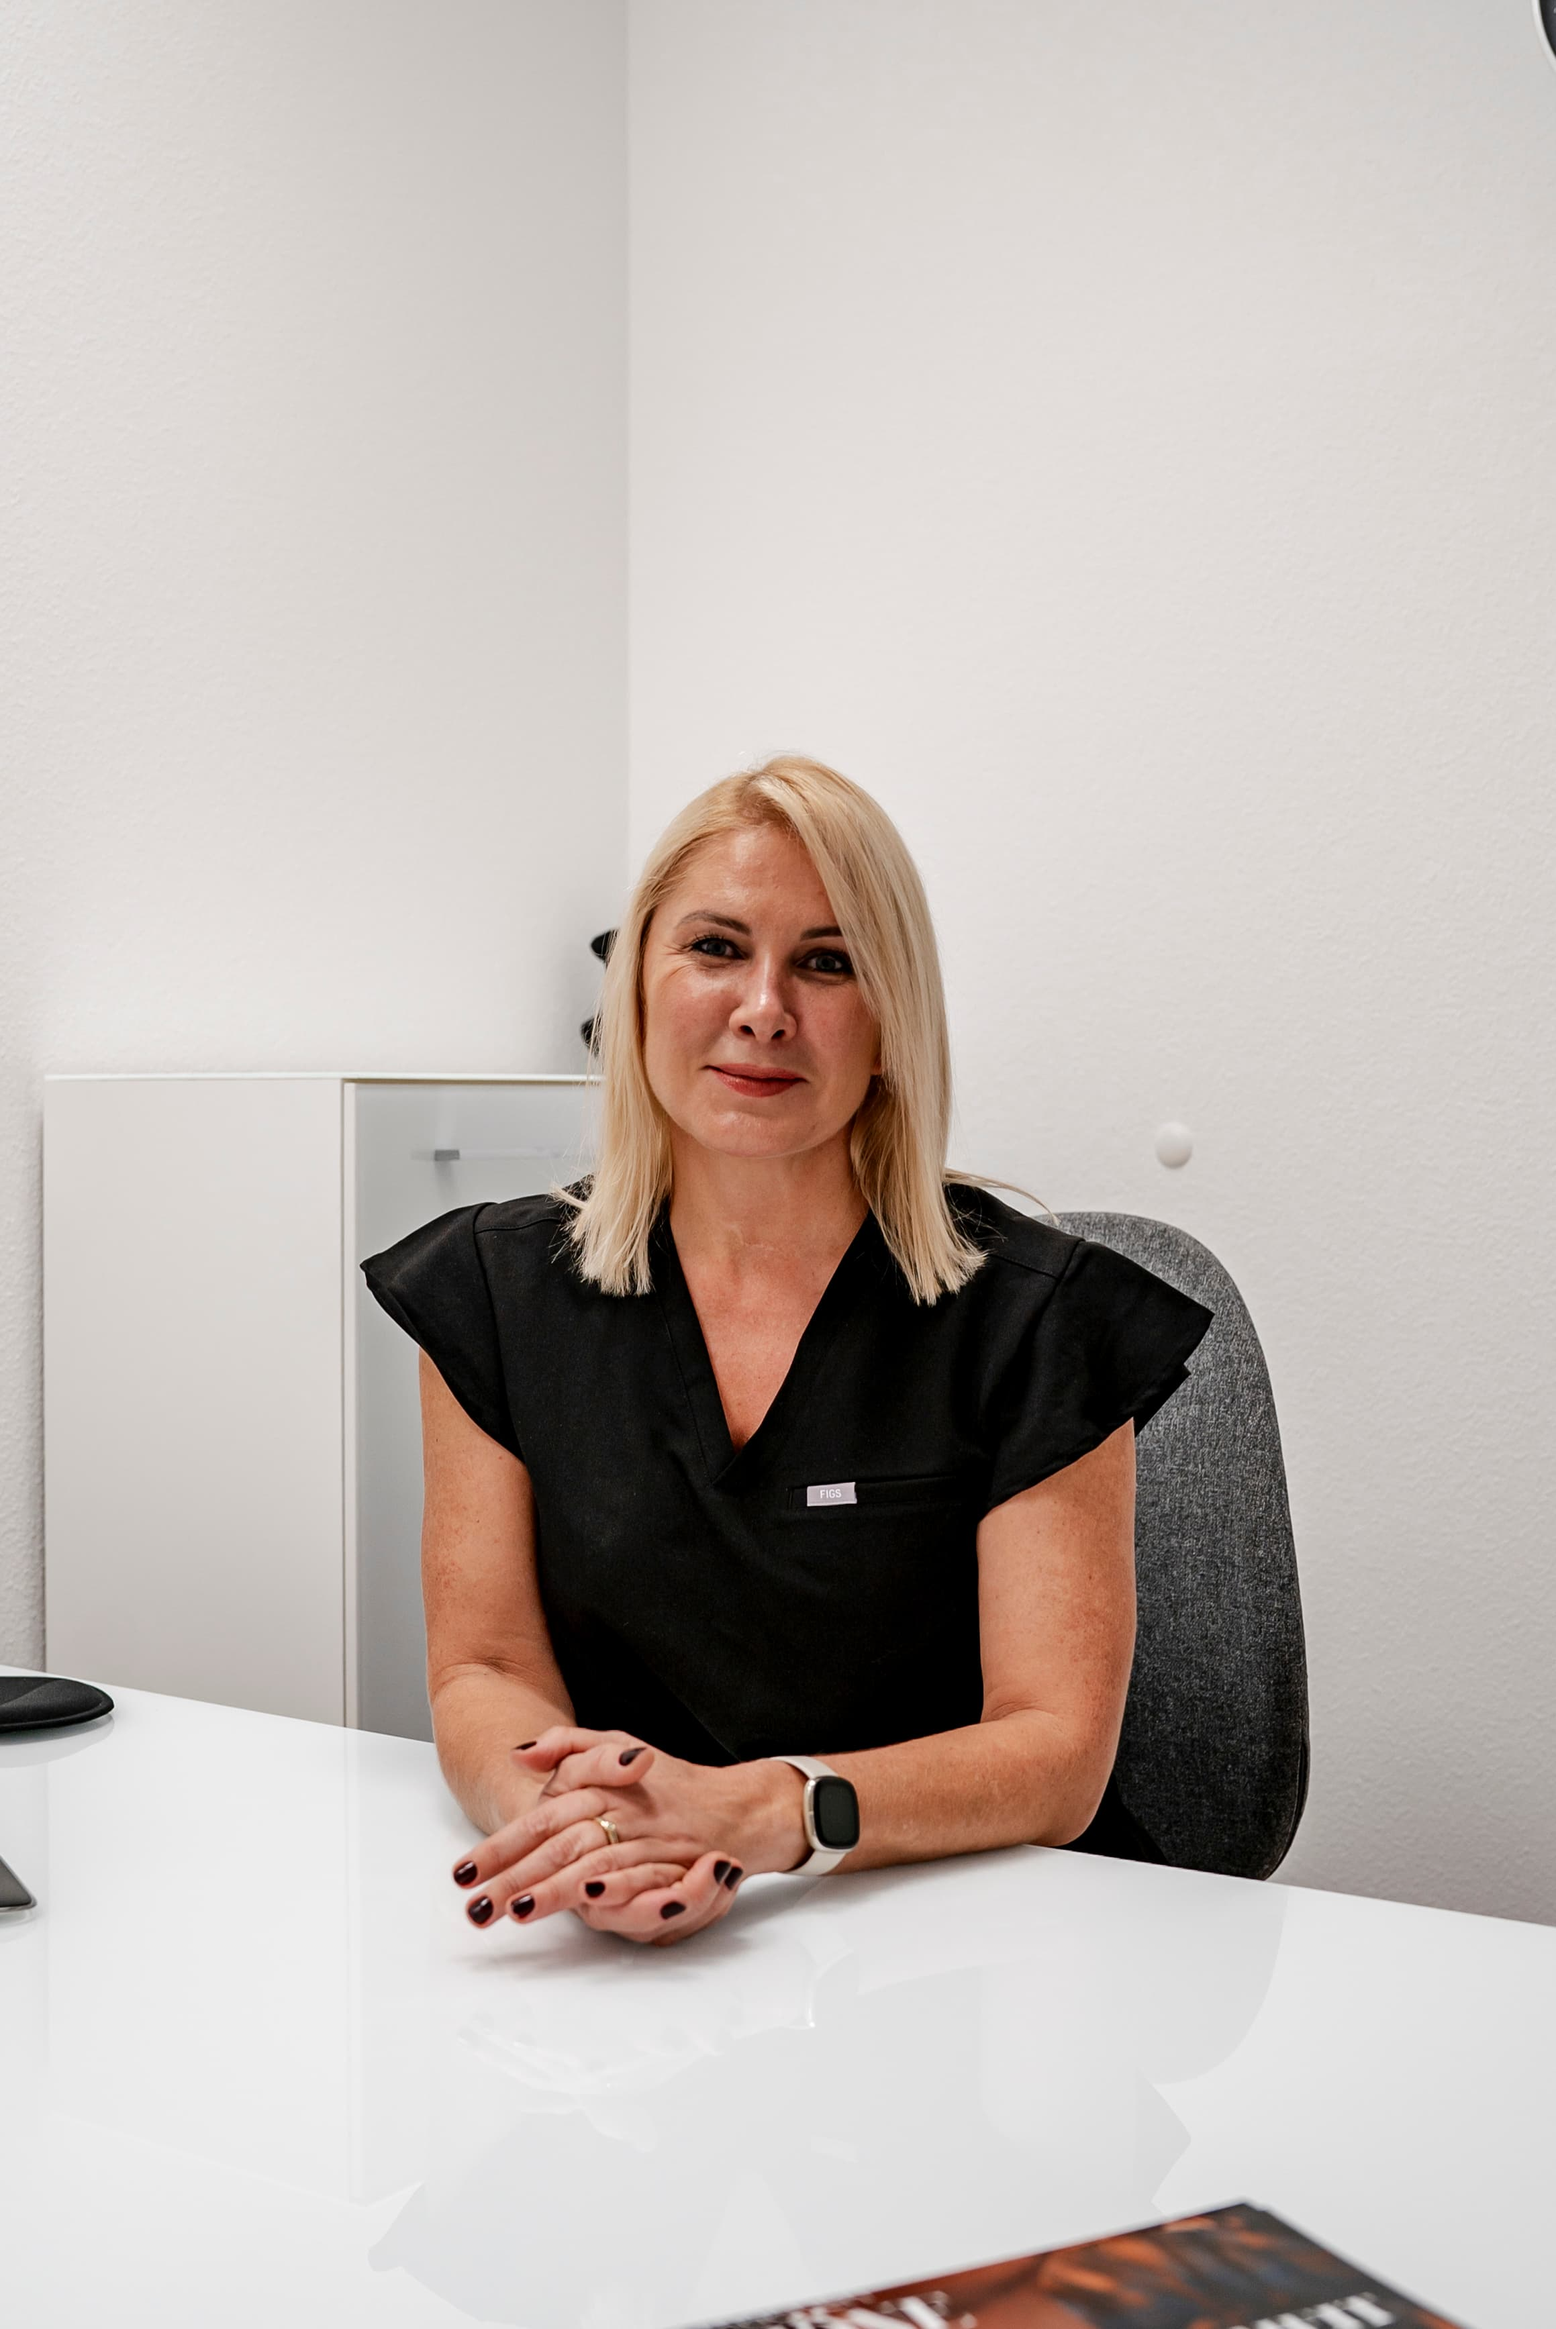
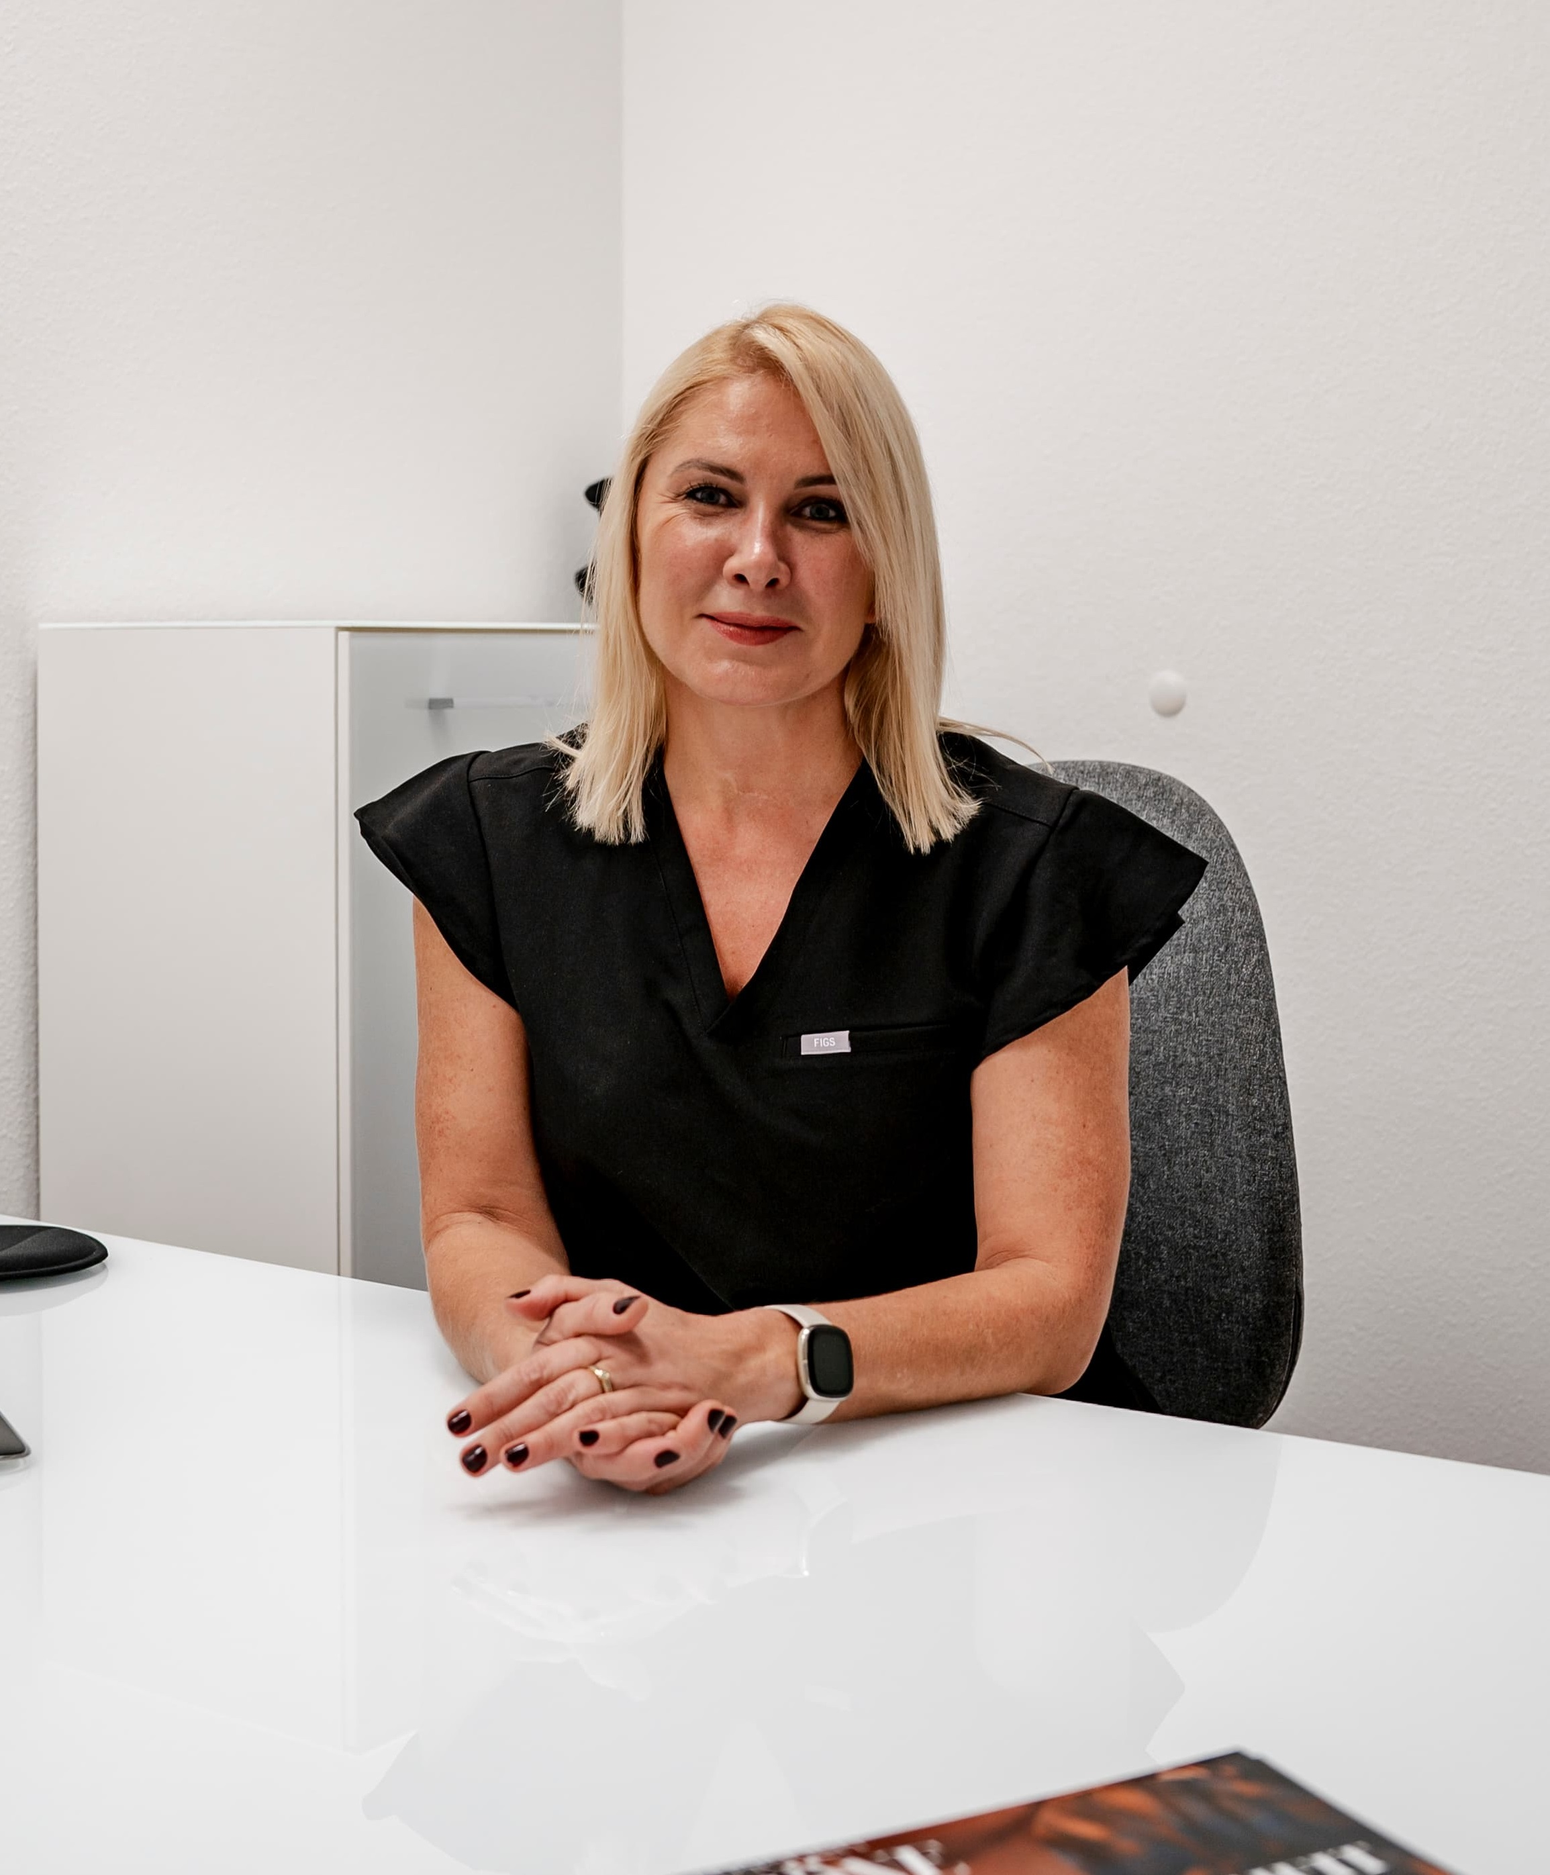
added new fotos and new section Frage

diff --git a/src/Pages/Home.js b/src/Pages/Home.js
@@ -9,7 +9,7 @@ import { Swiper, SwiperSlide } from "swiper/react";
 import hero from "../Images/logo3.png";
 import praxisImg from "../Images/praxis2.jpg";
 import serviceImg from "../Images/service4.jpg";
-import arztImg from "../Images/service3.jpg";
+import arztImg from "../Images/arztin2.jpg";
 import Icons from "./sprite.svg";
 
 import rev1 from "../Images/rev1.png";
@@ -45,6 +45,28 @@ export const Home = () => {
     useEffect(() => {
         window.scrollTo(0, 0);
     }, [pathname]);
+
+    const [activeIndex, setActiveIndex] = useState(null);
+    const toggleItem = (index) => {
+        setActiveIndex(activeIndex === index ? null : index);
+    };
+    const items = [
+        {
+            title: "Wie lange dauert eine Behandlung?",
+            content:
+                "Wir planen für den Erstkontakt 60min ein. Die Dauer eines Folgetermins wird dann zusammen mit Ihnen besprochen.",
+        },
+        {
+            title: "Was muss ich vor und nach einer osteopathischen Behandlung beachten?",
+            content:
+                "Bitte wählen Sie Ihren Termin, so dass Sie möglichst entspannt ankommen und wenn möglich nicht zu viele Termine im Anschluss wahrnehmen müssen. Trinken Sie viel Wasser, wenig Alkohol und bewegen Sie sich ohne Überanstrengung oder gönnen sich Ruhe. Die Behandlung ist nicht mit dem Verlassen der Praxis beendet, sie fängt da erst an. Ihr Körper wird auf die Behandlungsreize noch einige Zeit reagieren. Erstverschlimmerungen sind sehr selten, zeigen sich bestenfalls in Form eines Muskelkaters. Sollten Beschwerden verstärkt auftreten und länger als 2 Tage andauern, bitten wir Sie, sich mit uns in Verbindung zu setzten. ",
+        },
+        {
+            title: "Was muss ich bei Terminabsagen / Verschiebungen beachten?",
+            content:
+                "Wir bitten darum, wenn Sie einen Termin nicht wahrnehmen können, dass Sie diesen so früh wie möglich absagen. Bei Absagen innerhalb der 24 Stundenfrist werden wir uns bemühen einen Ersatz zu finden, ist dieses nicht möglich, müssen wir den Termin leider in Rechnung stellen. In der Regel haben wir immer Patienten auf unserer Warteliste, die sich freuen, wenn ein Termin vorverlegt werden kann. ",
+        },
+    ];
 
     return (
         <div className={s.wrapperPage}>
@@ -225,8 +247,6 @@ export const Home = () => {
                             1000: { slidesPerView: 3 },
                         }}
                         pagination={{ clickable: true }}
-                        onSwiper={(swiper) => console.log(swiper)}
-                        onSlideChange={() => console.log("slide change")}
                     >
                         <SwiperSlide>
                             <div className={s.cardReview}>
@@ -792,8 +812,42 @@ export const Home = () => {
                     </Swiper>
                 </Container>
             </section>
-            {/* Adress section*/}
+
+            {/* Häufige Fragen section*/}
             <section className={s.background1}>
+                <Container className={s.conteinerSection}>
+                    <h2 className={`${s.headersText} ${s.zentredText}`}>
+                        {" "}
+                        Häufige Fragen{" "}
+                    </h2>
+                    <div className="mt-4">
+                        {items.map((item, index) => (
+                            <div key={index} className="p-2">
+                                <div
+                                    className="d-flex justify-content-between align-items-center"
+                                    onClick={() => toggleItem(index)}
+                                    style={{ cursor: "pointer" }}
+                                >
+                                    {" "}
+                                    {item.title}
+                                    <span className="p-2">
+                                        {activeIndex === index ? "−" : "+"}
+                                    </span>
+                                </div>
+                                {activeIndex === index && (
+                                    <div className="m-2">
+                                        <small>{item.content}</small>
+                                    </div>
+                                )}
+                                <hr />
+                            </div>
+                        ))}
+                    </div>
+                </Container>
+            </section>
+
+            {/* Adress section*/}
+            <section className={s.background3}>
                 <Container className={s.conteinerSection}>
                     <Row className="g-0 mr-auto p-4">
                         <Col lg={6}>

diff --git a/src/Pages/Praxis.js b/src/Pages/Praxis.js
@@ -23,6 +23,16 @@ import service4 from "../Images/service4.jpg";
 import service5 from "../Images/service5.jpg";
 import service6 from "../Images/service6.jpg";
 import service7 from "../Images/service7.jpg";
+import service8 from "../Images/service8.jpg";
+import service9 from "../Images/service9.jpg";
+import service10 from "../Images/service10.jpg";
+import service11 from "../Images/service11.jpg";
+import service12 from "../Images/service12.jpg";
+import service13 from "../Images/service13.jpg";
+import service14 from "../Images/service14.jpg";
+import service15 from "../Images/service15.jpg";
+import service16 from "../Images/service16.jpg";
+
 import s from "./home.module.css";
 
 const images = [
@@ -46,6 +56,15 @@ const images = [
     service5,
     service6,
     service7,
+    service8,
+    service9,
+    service10,
+    service11,
+    service12,
+    service13,
+    service14,
+    service15,
+    service16,
 ];
 const imagesPraxis = [
     praxis1,
@@ -70,6 +89,15 @@ const imagesService = [
     service5,
     service6,
     service7,
+    service8,
+    service9,
+    service10,
+    service11,
+    service12,
+    service13,
+    service14,
+    service15,
+    service16,
 ];
 
 export const Praxis = () => {

diff --git a/src/Pages/Service.js b/src/Pages/Service.js
@@ -193,7 +193,7 @@ export const Service = () => {
                                     style={{ cursor: "pointer" }}
                                 >
                                     <span className="p-2">
-                                        {activeIndexOne === index ? "−" : "+"}
+                                        {activeIndexOne === index ? "-" : "+"}
                                     </span>
                                     {item.title}
                                 </div>
